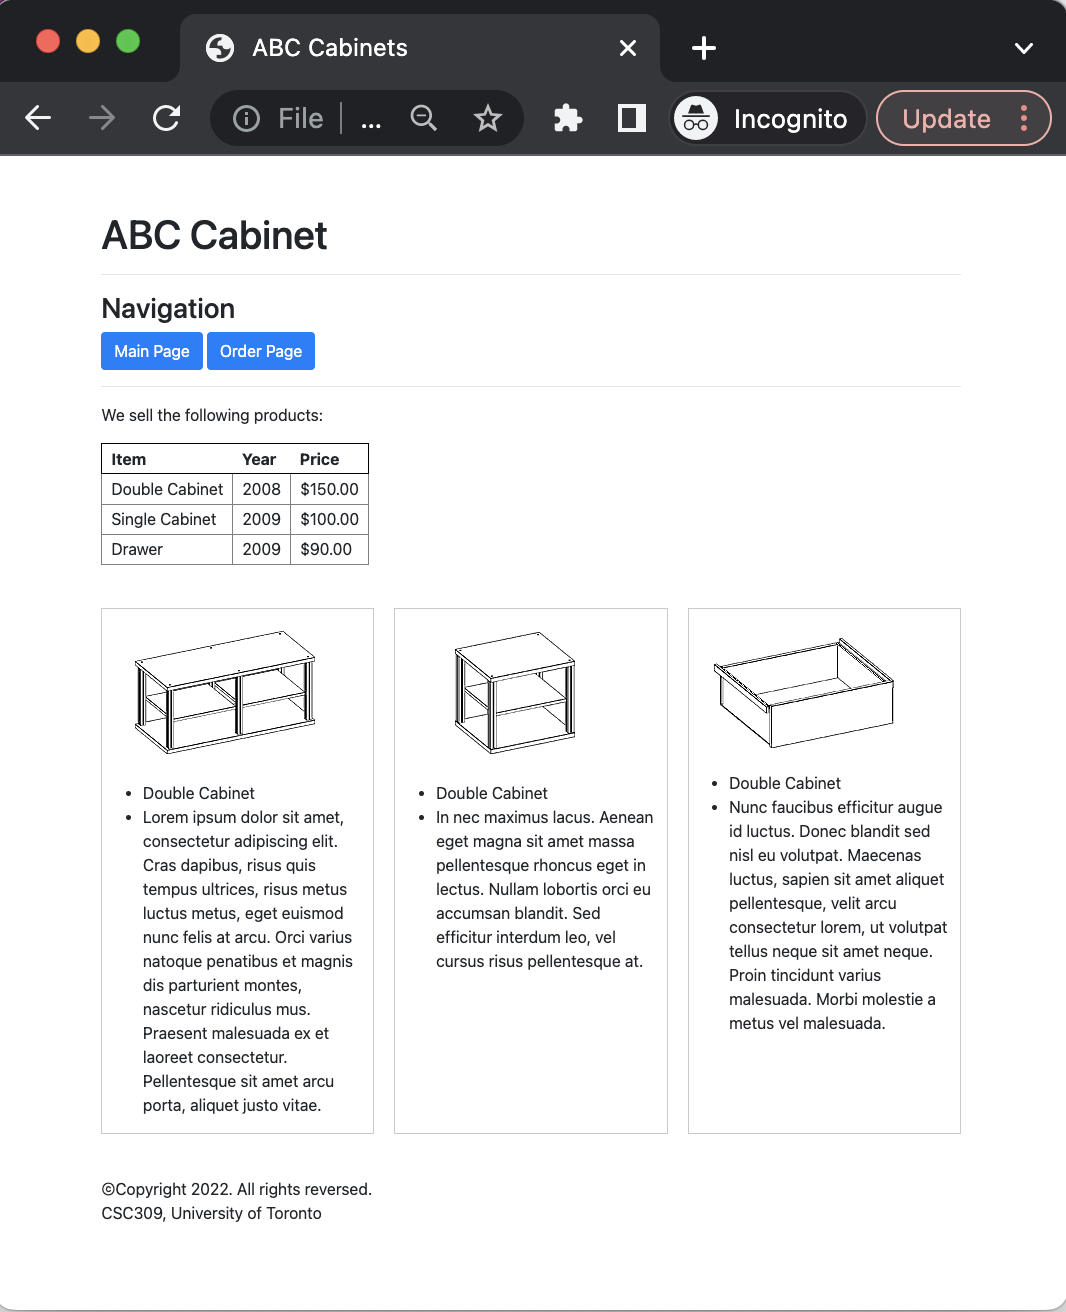
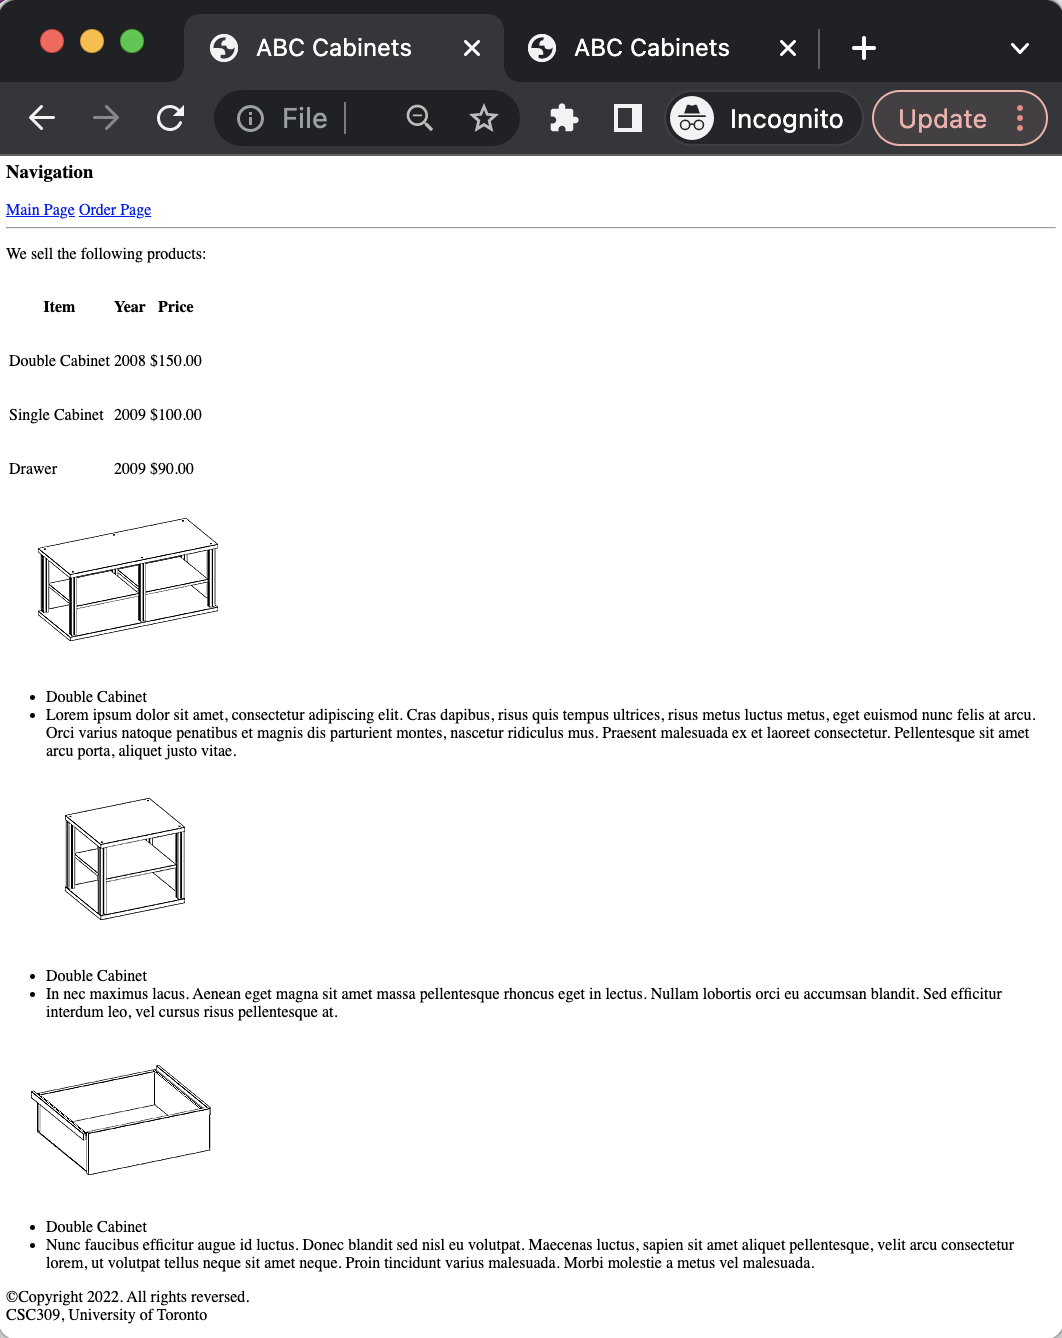
Separate week1 and week 2 images.

diff --git a/Week1-HTML/README.md b/Week1-HTML/README.md
@@ -1,8 +1,10 @@
 # CSC309 Tutorials: Week 1 (HTML)
-Welcome to the CSC309 tutorials week 1. In this exercise, we will build a simple two pages website in four sections. The goal is to have a website like the image below after the end of week 2. This week, you work only on building the structure of the page and its contents. The next week we will start working on style.  
+Welcome to the CSC309 tutorials week 1. In this exercise, we will build a simple two pages website in four sections. At the end of this tutorial you will have a website similar to figure 1. The goal is to have a website similar to figure 2 below after the end of week 2. This week, you work only on building the structure of the page and its contents. The next week we will start working on style.  
 
 
-<p align="center"><img src="/images/week1-main.png" alt="main page" width="40%"/> <img src="/images/week1-order.png" alt="main page" width="40%"/></p>
+<p align="center"><img src="/images/week1-main.png" alt="main page" width="40%"/> <img src="/images/week1-order.png" alt="main page" width="40%"/><br/>Figure 1: Your website at the end of week 1 session should look like this.</p>
+
+<p align="center"><img src="/images/week2-main.png" alt="main page" width="40%"/> <img src="/images/week2-order.png" alt="main page" width="40%"/><br/>Figure 2: Your website at the end of week 1 session should look like this.</p>
 
 ---
 ### Section 1: Building the structure of the main page
